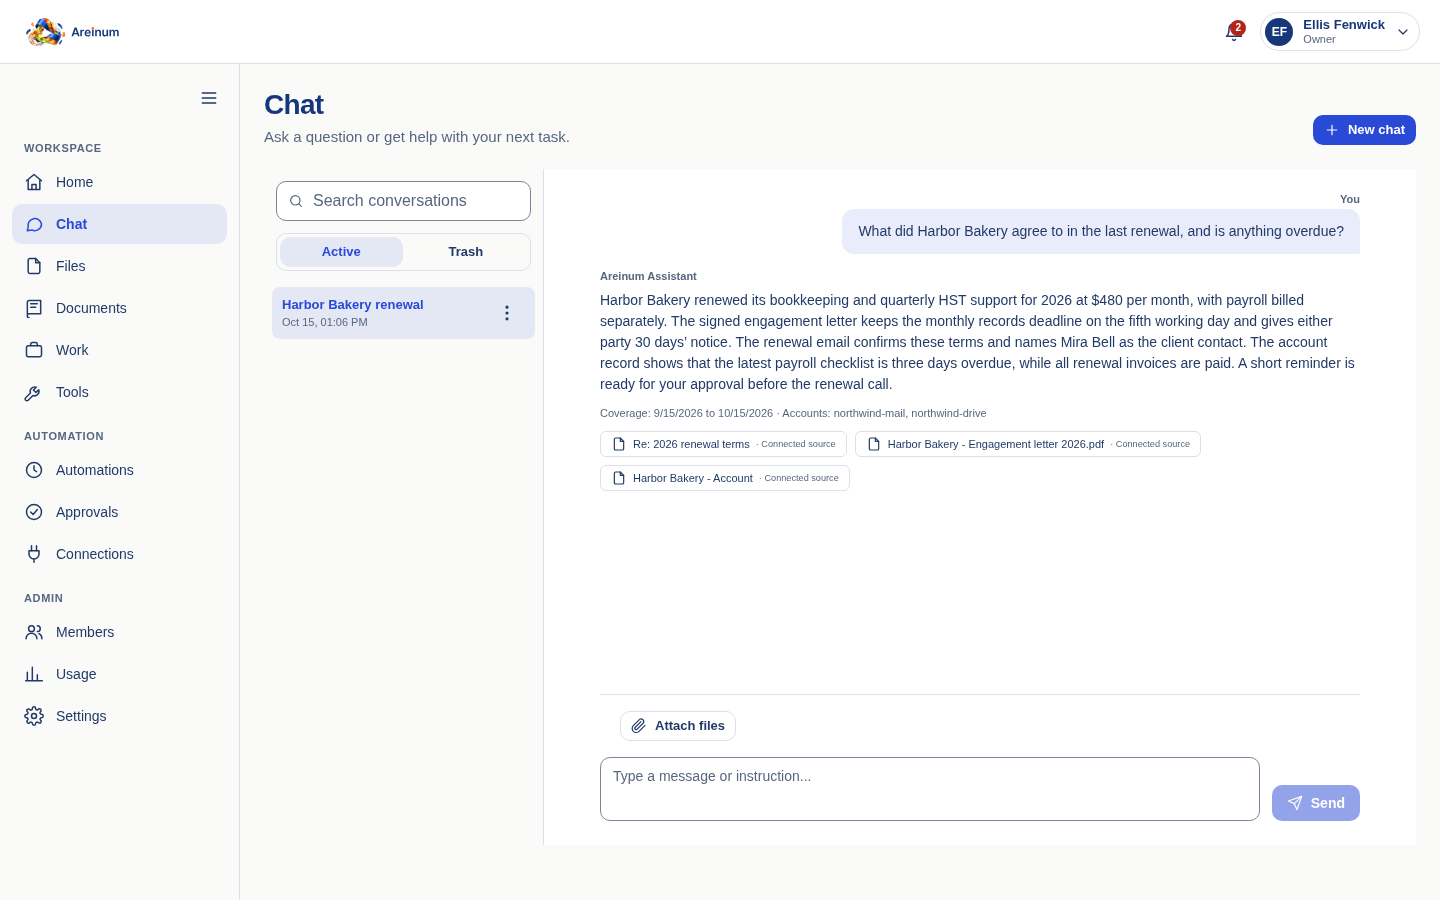
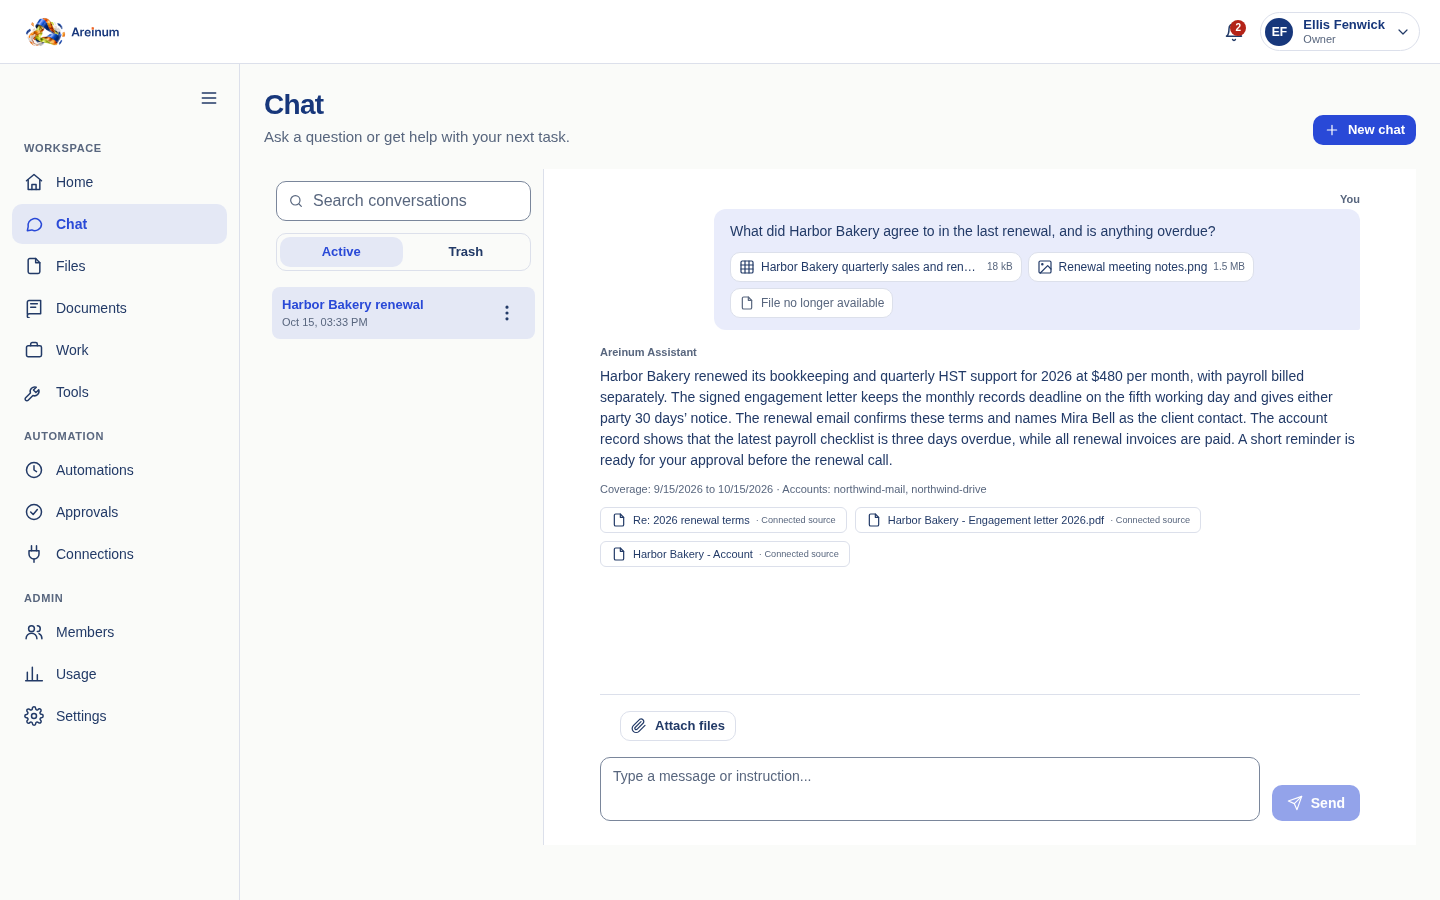
Show attached files in the chat screenshot
The chat screenshot now shows the files sent with a question: a spreadsheet,
an image and one file that is no longer available.

Changed region(s): [[0.4062, 0.2489, 0.9375, 0.6222]]

diff --git a/README.md b/README.md
@@ -2,7 +2,7 @@
 
 **[areinum.com](https://areinum.com)**
 
-![Areinum answering a question from company mail, files and CRM, with its sources](images/areinum-chat.png)
+![Areinum answering a question with two attached files, using company mail, files and CRM, with its sources](images/areinum-chat.png)
 
 Areinum is an AI agent workspace for small companies with 1 to 25 people. It works on the company's own data (mail, drives, chats, projects and CRM) without copying that data into the AI.
 
